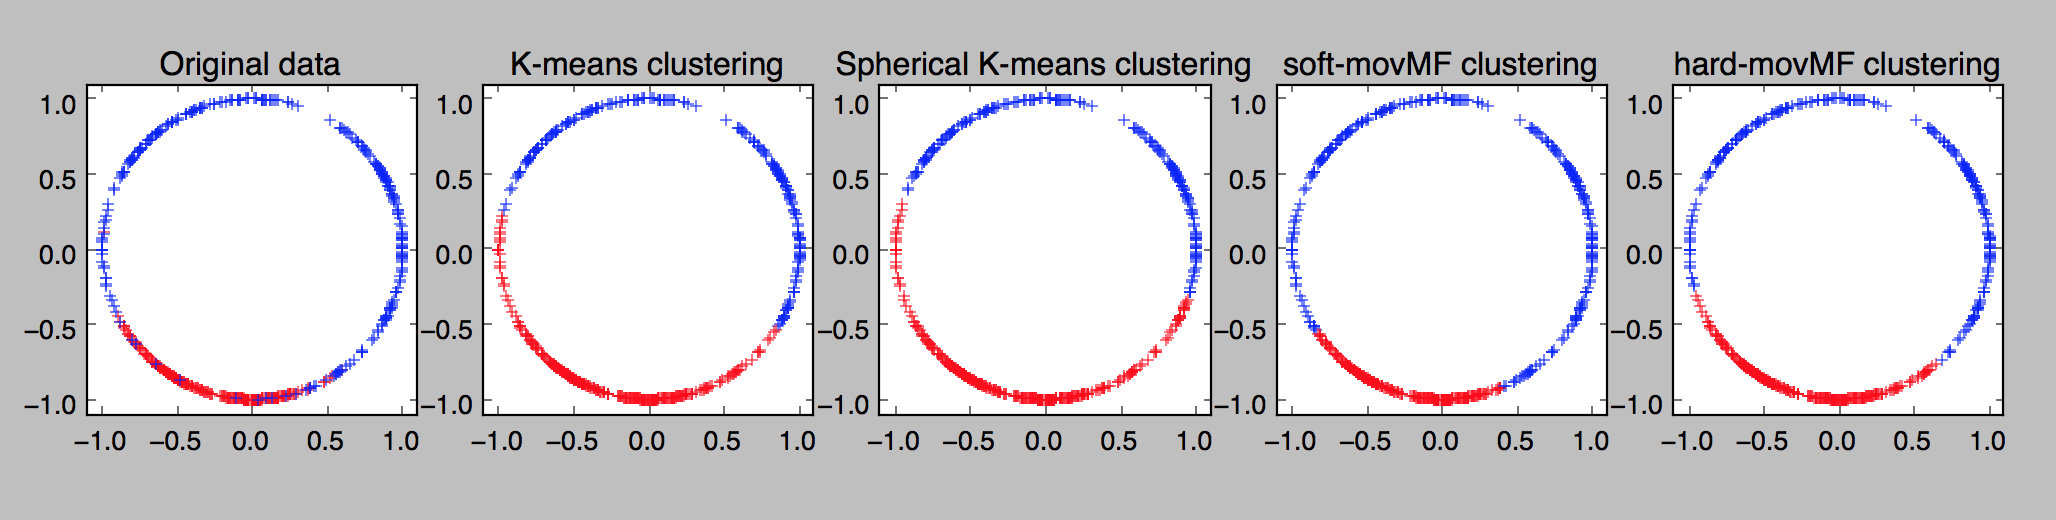
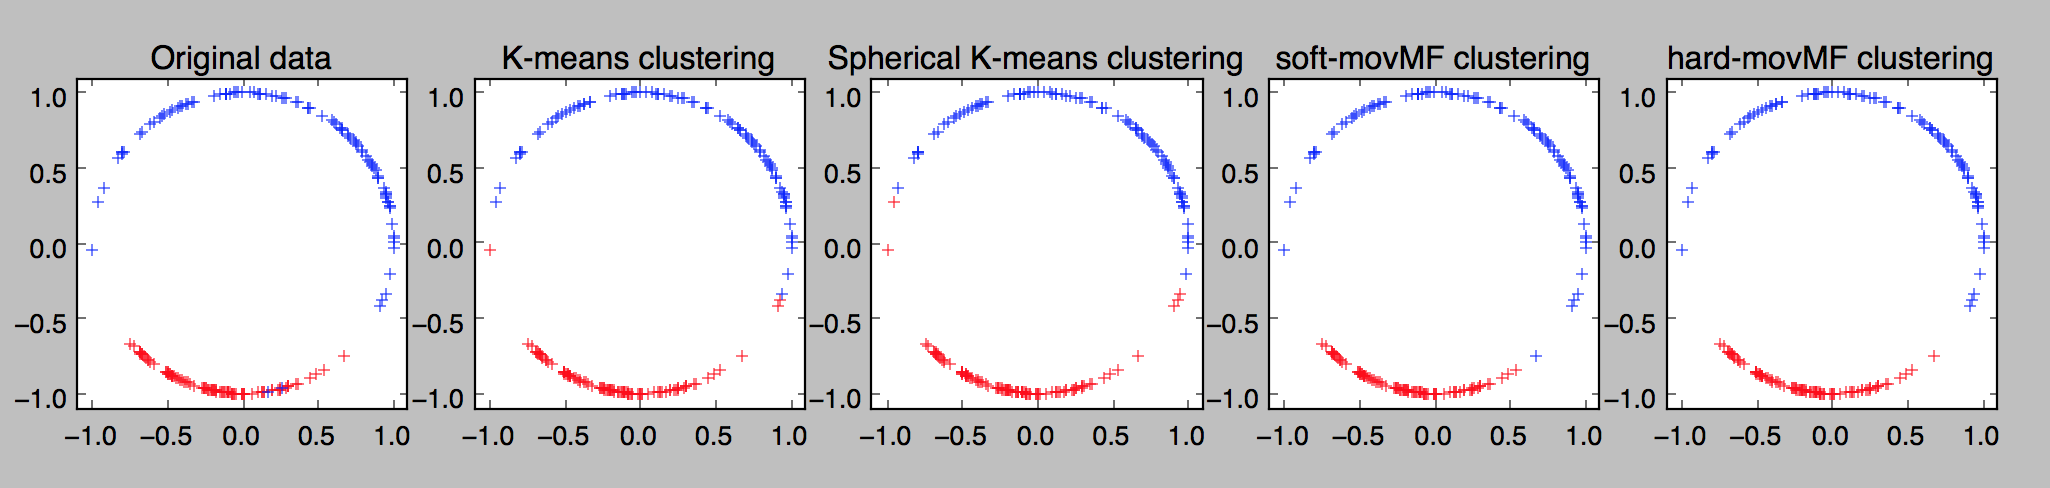
Update images

diff --git a/examples/sample_vMF.py b/examples/sample_vMF.py
@@ -25,8 +25,8 @@ def weight_rejection_sampling(kappa, dim, num_samples):
     samples = []
     for nn in range(num_samples):
         while True:
-            z = np.random.uniform(low=0, high=1)
-            w = (1 - (1 + b) * z) / (1 - (1 - b) * z)
+            z = np.random.beta(dim / 2., dim / 2.)
+            w = (1. - (1. + b) * z) / (1. - (1. - b) * z)
             u = np.random.uniform(low=0, high=1)
             if kappa * w + dim * np.log(1 - x * w) - c >= np.log(u):
                 samples.append(w)
@@ -43,7 +43,7 @@ def sample_tangent_unit(mu):
 
     U, _, _ = np.linalg.svd(mat)
     nu = np.matrix(np.random.randn(mat.shape[0])).T
-    x = np.dot(U[:,1:], nu[1:,:])
+    x = np.dot(U[:, 1:], nu[1:, :])
     return np.squeeze(np.array(x / np.linalg.norm(x)))
 
 
@@ -60,9 +60,6 @@ def vMF(mu, kappa, num_samples):
         v = sample_tangent_unit(mu)
 
         # compute new point
-        new_point = v * np.sqrt(1 - ws[nn]**2) + ws[nn] * mu
-
-        # collect result
-        result[nn, :] = new_point
+        result[nn, :] = v * np.sqrt(1 - ws[nn]**2) + ws[nn] * mu
 
     return result

diff --git a/examples/small_mix_3d.py b/examples/small_mix_3d.py
@@ -23,9 +23,9 @@ mu_1 = np.array([0.399, 0.917, 0.713])
 mu_1 = mu_1 / np.linalg.norm(mu_1)
 mus = [mu_0, mu_1]
 kappa_0 = 8 # concentration parameter
-kappa_1 = 0.5 # concentration parameter
+kappa_1 = 2 # concentration parameter
 kappas = [kappa_0, kappa_1]
-num_points_per_class = 500
+num_points_per_class = 300
 
 X_0 = sample_vMF.vMF(mu_0, kappa_0, num_points_per_class)
 X_1 = sample_vMF.vMF(mu_1, kappa_1, num_points_per_class)

diff --git a/examples/small_mix.py b/examples/small_mix.py
@@ -25,9 +25,9 @@ mu_0 = np.array([-0.251, -0.968])
 mu_1 = np.array([0.399, 0.917])
 mus = [mu_0, mu_1]
 kappa_0 = 8 # concentration parameter
-kappa_1 = 0.5 # concentration parameter
+kappa_1 = 2 # concentration parameter
 kappas = [kappa_0, kappa_1]
-num_points_per_class = 300
+num_points_per_class = 100
 
 X_0 = sample_vMF.vMF(mu_0, kappa_0, num_points_per_class)
 X_1 = sample_vMF.vMF(mu_1, kappa_1, num_points_per_class)

diff --git a/README.md b/README.md
@@ -116,6 +116,7 @@ Spherical k-means, which is a simple low-cost modification to the standard k-mea
 
         Find more at:
         [https://cran.r-project.org/web/packages/movMF/index.html](https://cran.r-project.org/web/packages/movMF/index.html)
+
         [Additional references on approximations](https://cran.r-project.org/web/packages/movMF/movMF.pdf)
 
 
